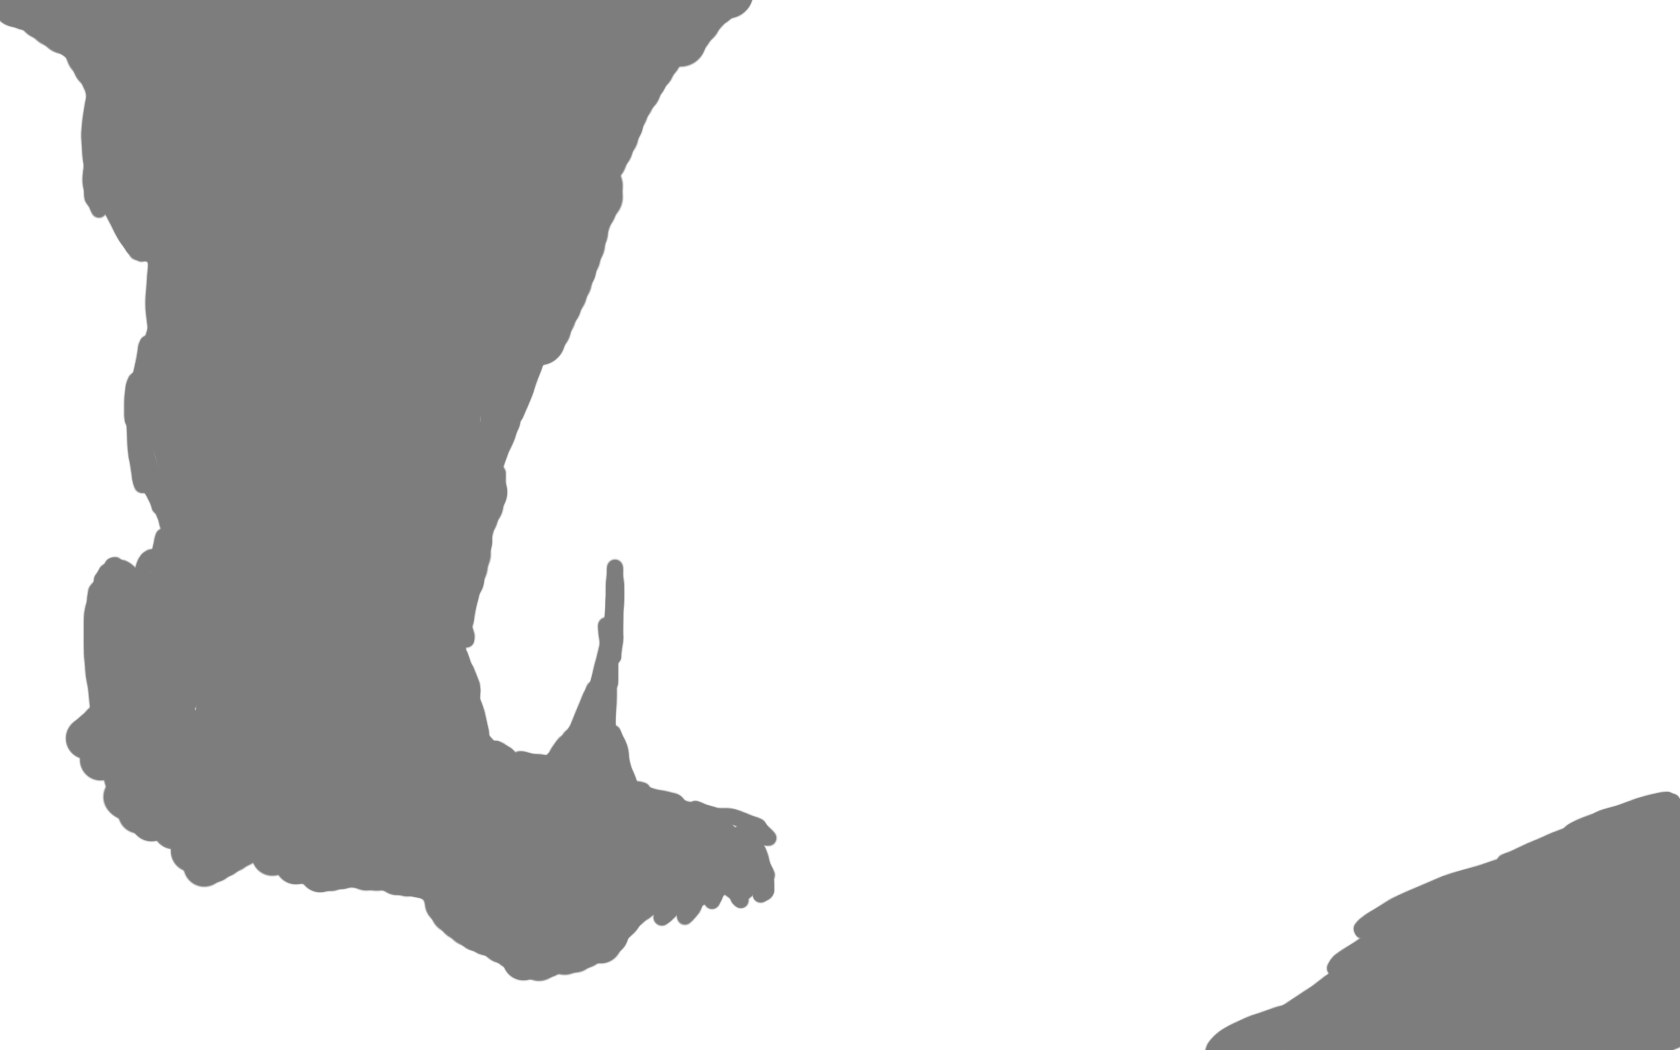
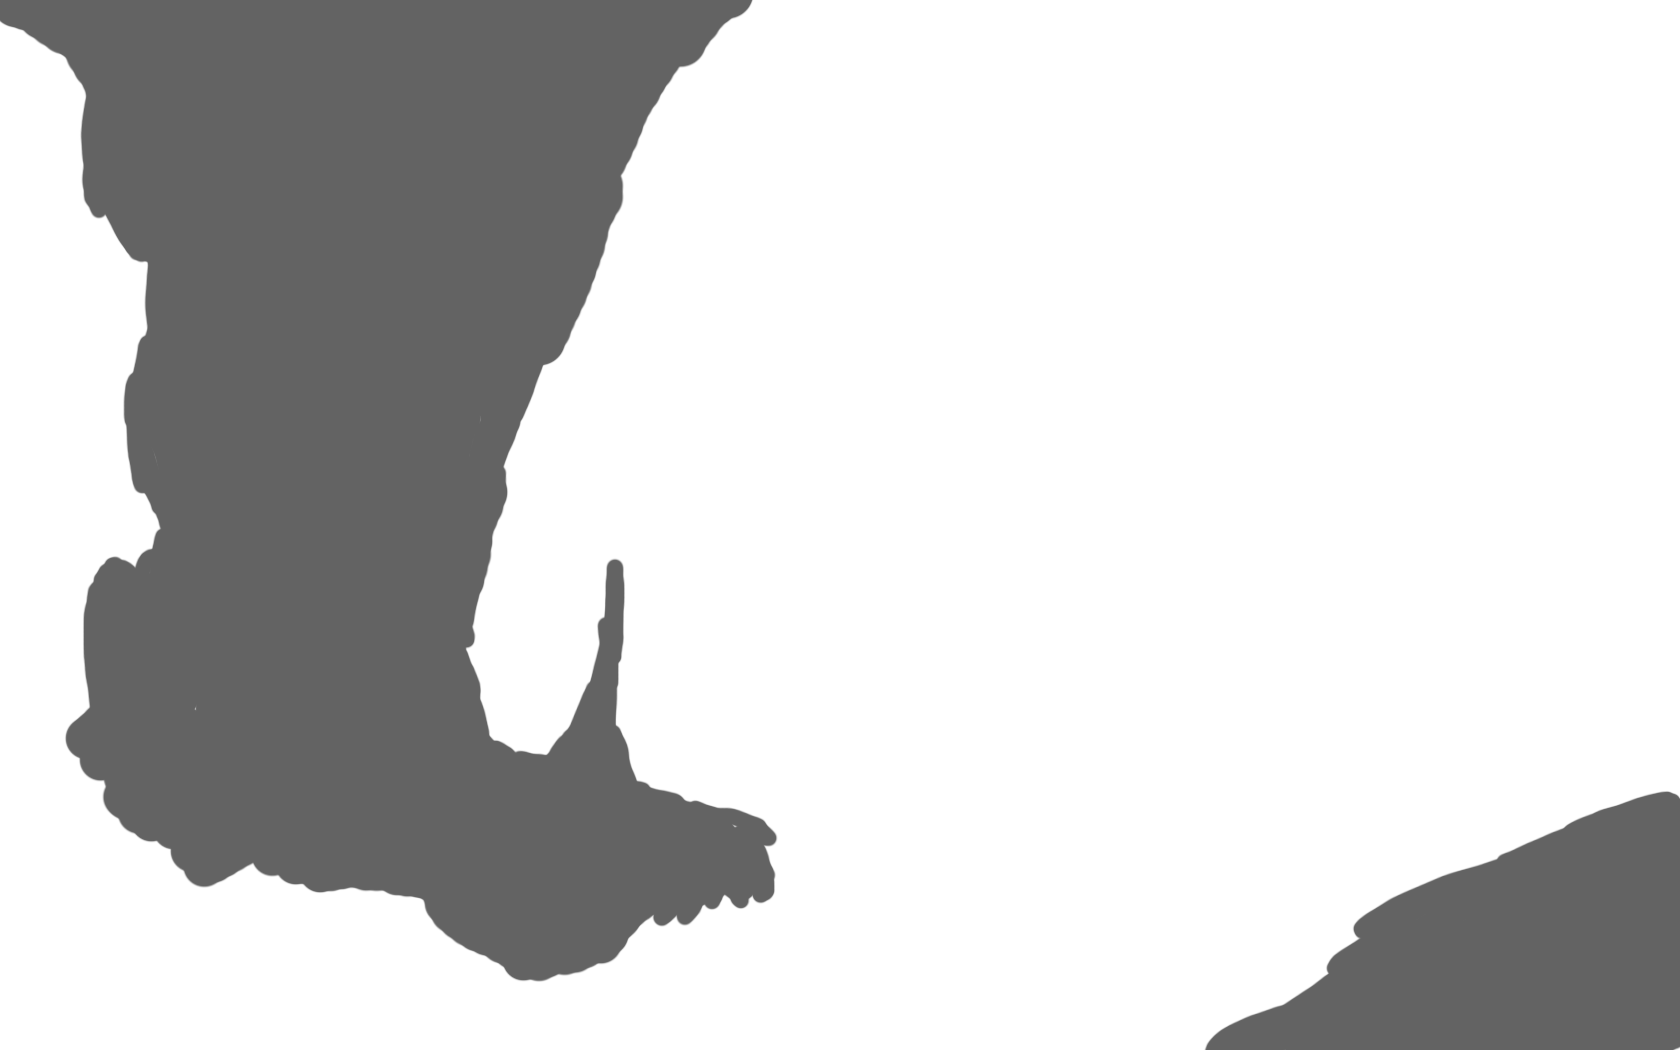
Improved background colors.

Changed region(s): [[0.0, 0.0, 0.4643, 0.9448], [0.7119, 0.7314, 1.0, 1.0]]

diff --git a/Loderpit/Loderpit/EntityFactory.cs b/Loderpit/Loderpit/EntityFactory.cs
@@ -853,7 +853,7 @@ namespace Loderpit
             {
                 body.CollisionCategories = (ushort)CollisionCategory.Terrain;
                 EntityManager.addComponent(entityId, new GroundBodyComponent(entityId, body));
-                EntityManager.addComponent(entityId, createColorPrimitiveRenderComponent(entityId, body, new Color(180, 180, 180, 255)));
+                EntityManager.addComponent(entityId, createColorPrimitiveRenderComponent(entityId, body, new Color(130, 130, 130, 255)));
             }
 
             // Ceiling component
@@ -861,7 +861,7 @@ namespace Loderpit
             {
                 body.CollisionCategories = (ushort)CollisionCategory.Terrain;
                 EntityManager.addComponent(entityId, new CeilingComponent(entityId, body));
-                EntityManager.addComponent(entityId, createColorPrimitiveRenderComponent(entityId, body, new Color(180, 180, 180, 255)));
+                EntityManager.addComponent(entityId, createColorPrimitiveRenderComponent(entityId, body, new Color(130, 130, 130, 255)));
             }
 
             // DestructibleObstacle (with Vitals) components
